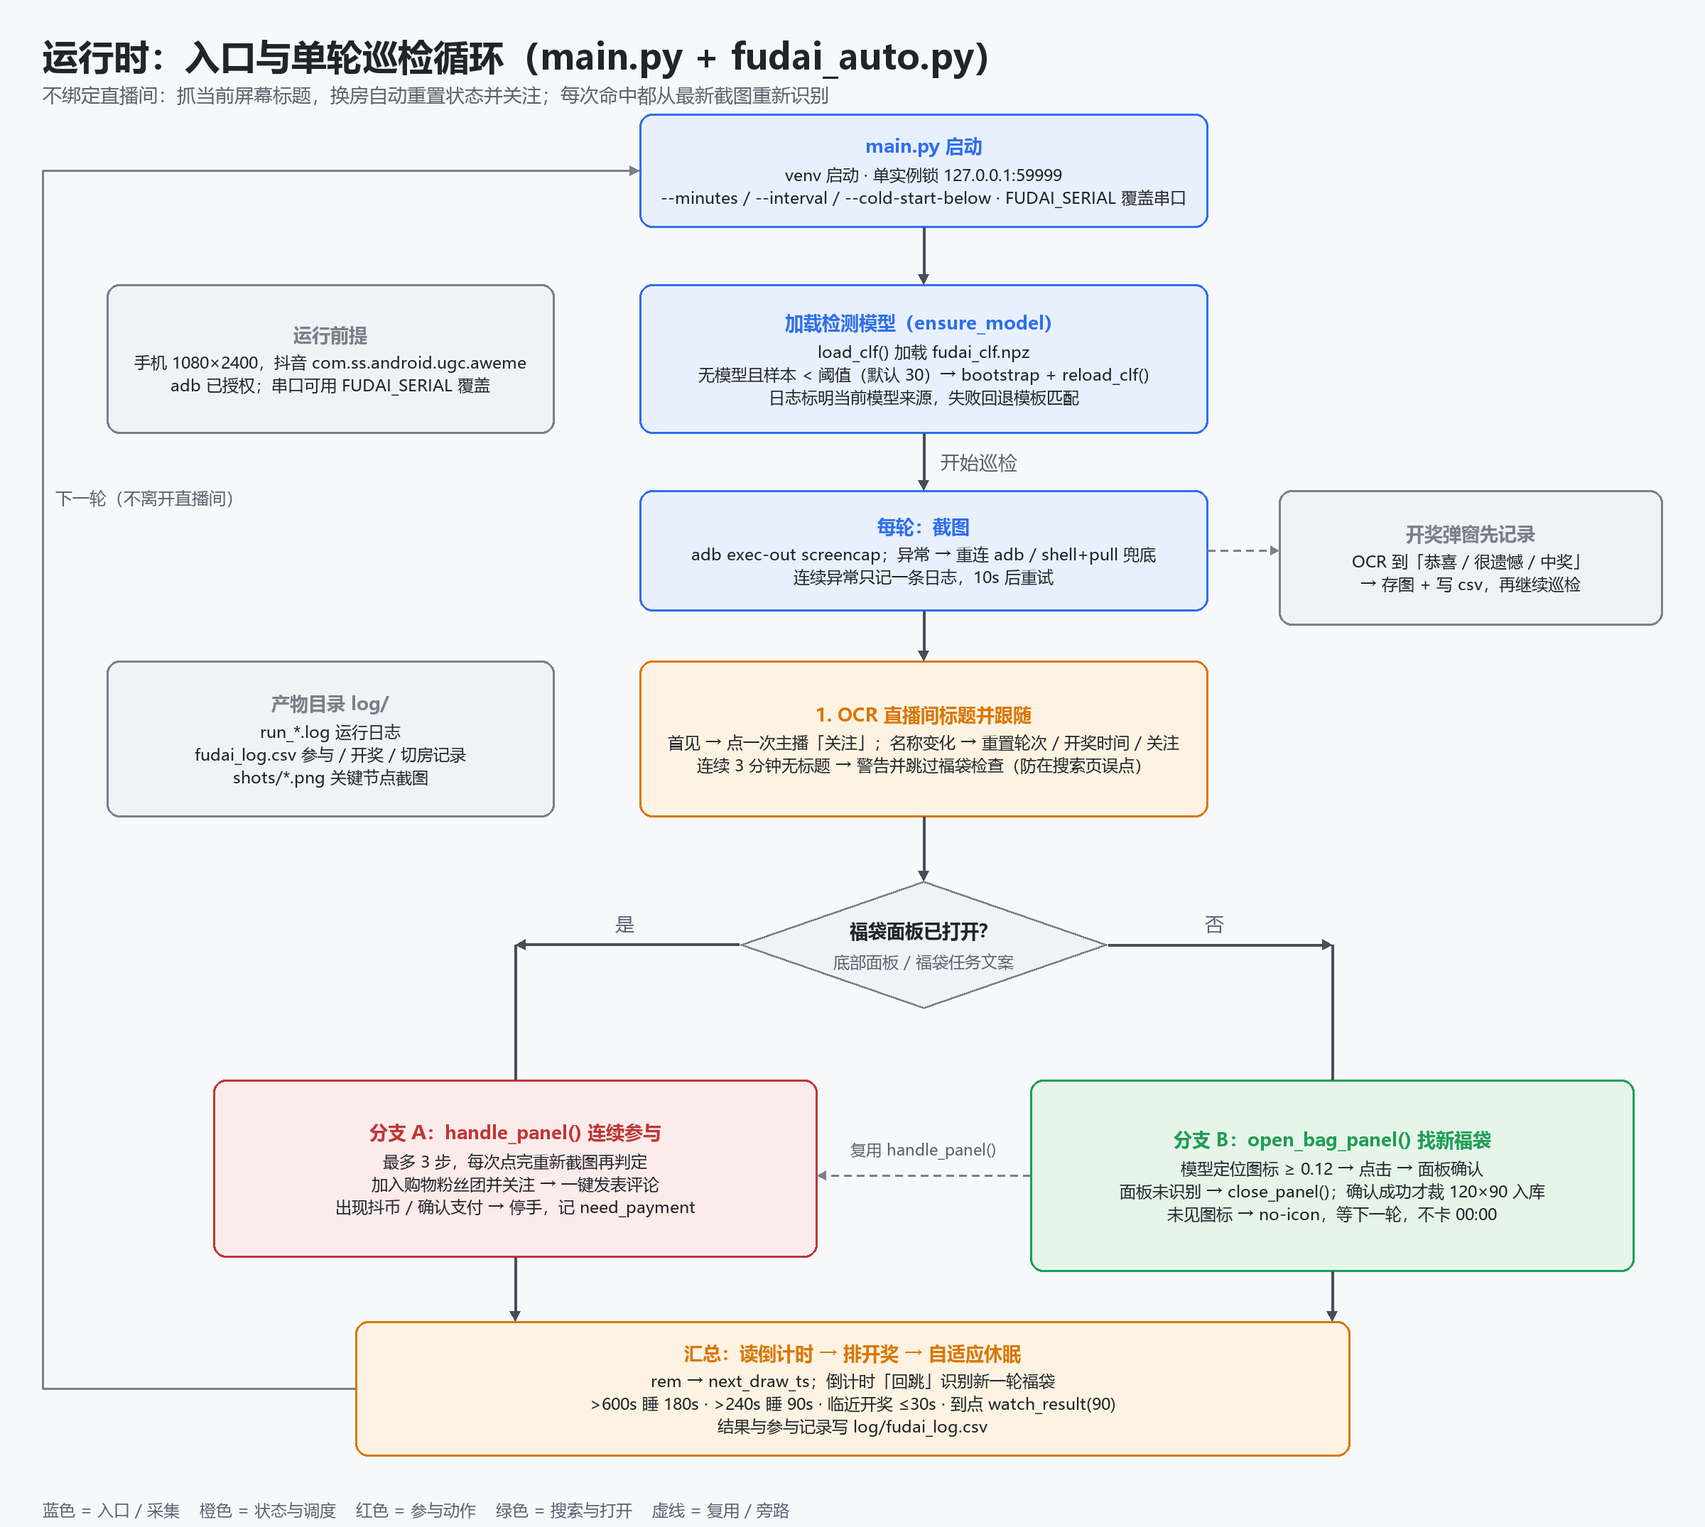
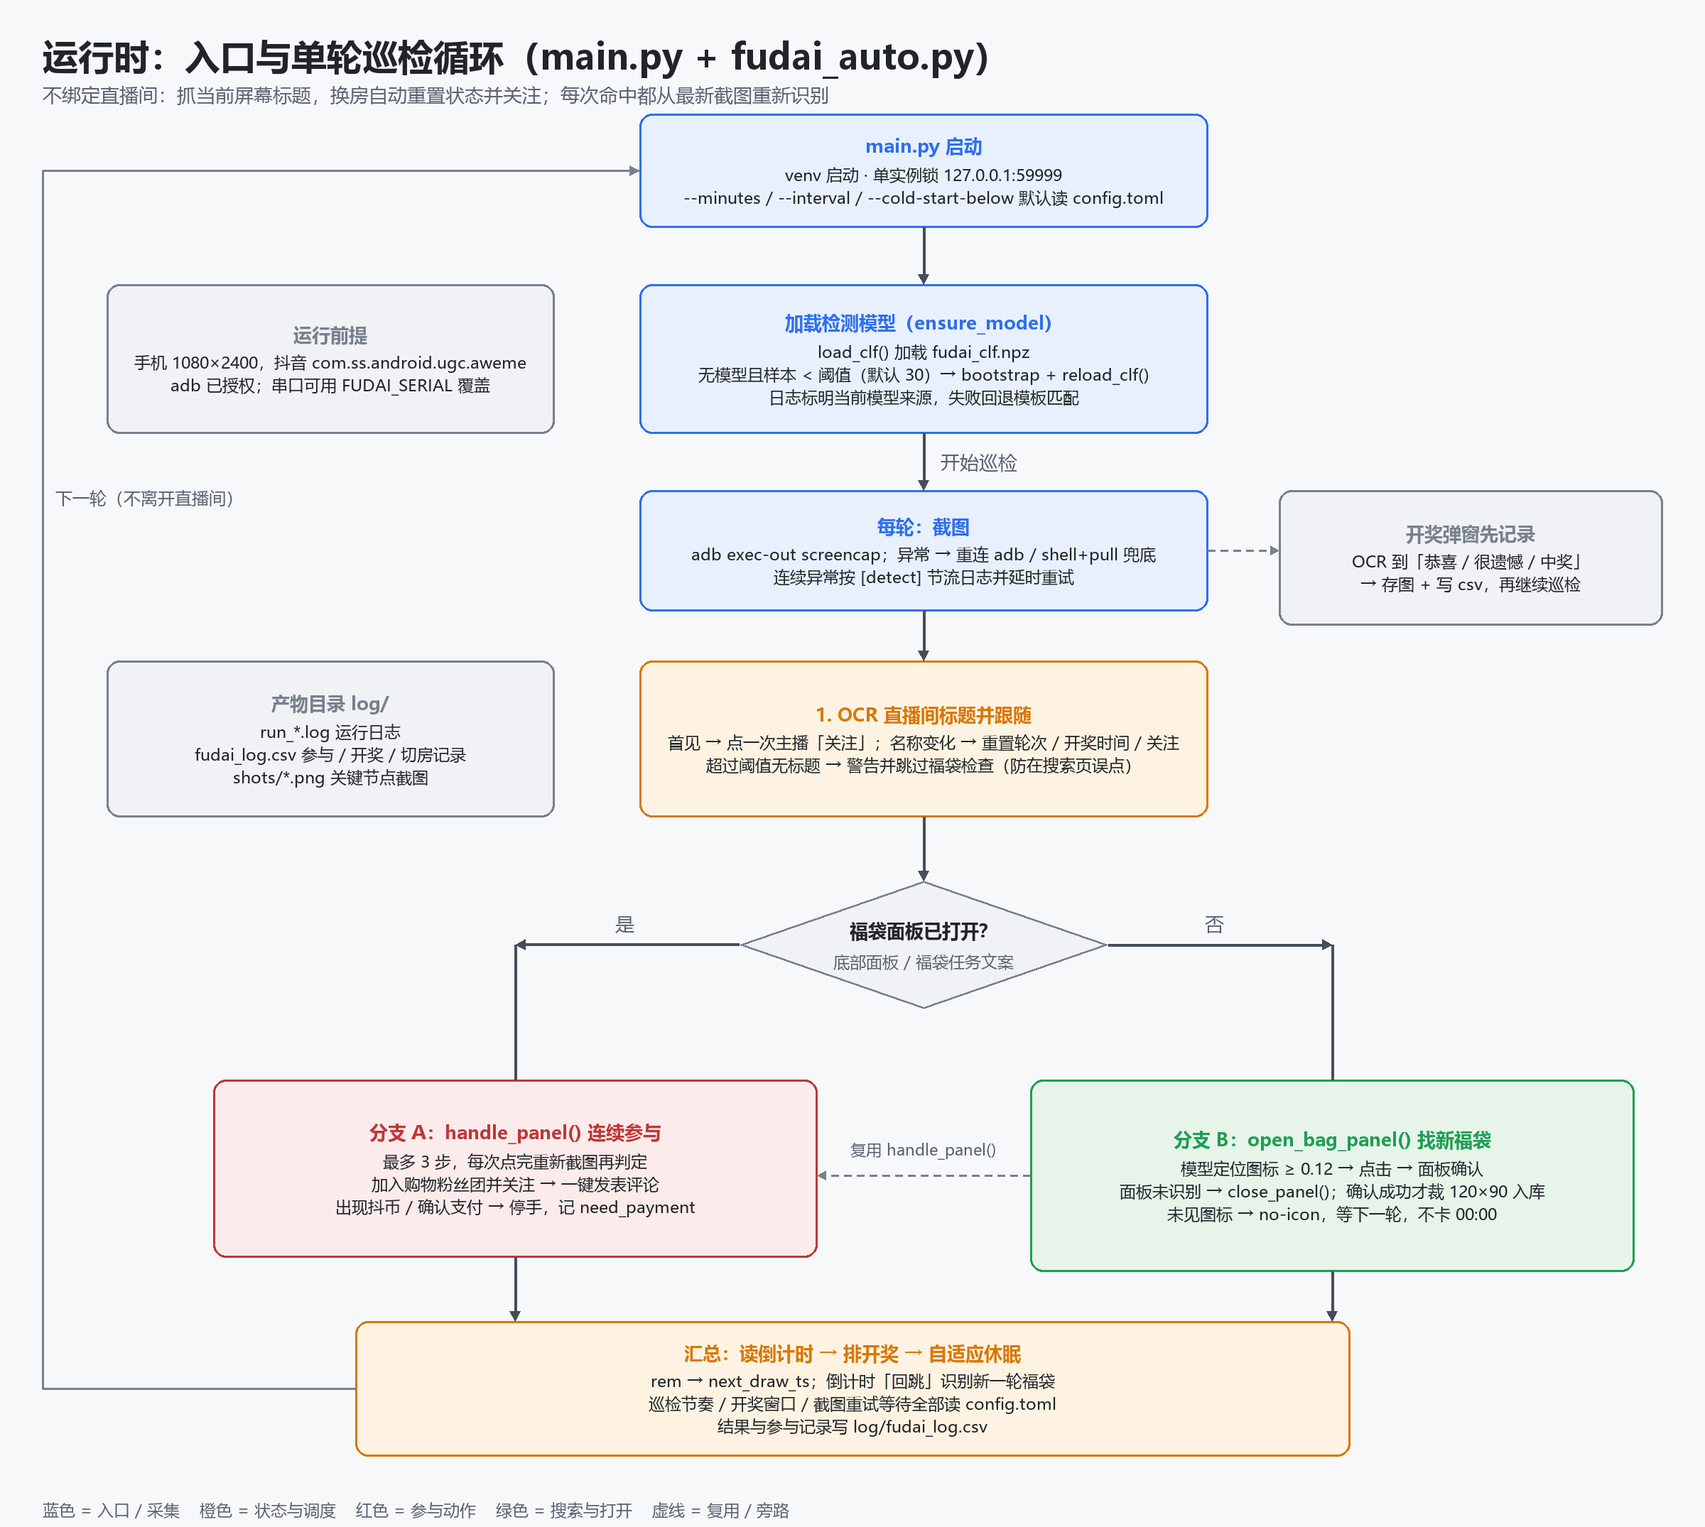
feat: 检测节奏集中到 config.toml，CLI 参数可覆盖

diff --git a/main.py b/main.py
@@ -41,13 +41,22 @@ def ensure_model(cold_start_below):
 
 def main():
     ap = argparse.ArgumentParser()
-    ap.add_argument("--minutes", type=float, default=180, help="运行时长（分钟）")
-    ap.add_argument("--interval", type=float, default=60, help="检查福袋的基础间隔（秒）")
+    ap.add_argument("--minutes", type=float, default=None,
+                    help="运行时长（分钟），默认取 config.toml [run].minutes")
+    ap.add_argument("--interval", type=float, default=None,
+                    help="检查福袋的基础间隔（秒），默认取 config.toml [run].interval")
     ap.add_argument("--room", default="", help="可选：期望的直播间标题关键字，留空跟随当前直播间")
     ap.add_argument("--serial", default=None, help="adb 设备序列号（默认取 FUDAI_SERIAL 或内置值）")
-    ap.add_argument("--cold-start-below", type=int, default=30,
-                    help="样本数低于该值时走冷启动（默认 30）")
+    ap.add_argument("--cold-start-below", type=int, default=None,
+                    help="样本数低于该值时走冷启动，默认取 config.toml [cold_start].below")
     args = ap.parse_args()
+
+    if args.minutes is None:
+        args.minutes = float(fa.cfg("run", "minutes"))
+    if args.interval is None:
+        args.interval = float(fa.cfg("run", "interval"))
+    if args.cold_start_below is None:
+        args.cold_start_below = int(fa.cfg("cold_start", "below"))
 
     if args.serial:
         fa.SERIAL = args.serial
@@ -87,7 +96,7 @@ def main():
         now = time.time()
         if last_rem is not None and last_rem_ts:
             expect = max(0, last_rem - (now - last_rem_ts))
-            if rem > expect + 90:
+            if rem > expect + float(fa.cfg("detect", "new_cycle_jump_seconds")):
                 cycle_count += 1
                 fa.log(f"检测到新一轮福袋（第 {cycle_count} 轮），剩余 {rem}s 开奖")
                 fa.log_csv("new_cycle", f"#{cycle_count} rem={rem}")
@@ -100,11 +109,11 @@ def main():
         try:
             img = fa.shot()
         except Exception as e:
-            if time.time() - last_err_log > 30:
+            if time.time() - last_err_log > float(fa.cfg("detect", "shot_error_log_every_seconds")):
                 last_err_log = time.time()
                 fa.log(f"截图异常(自动重试): {e}")
                 fa.log_csv("shot_error", str(e)[:80])
-            time.sleep(10)
+            time.sleep(float(fa.cfg("detect", "shot_retry_seconds")))
             continue
 
         cycle_no += 1
@@ -133,7 +142,7 @@ def main():
                 last_rem_ts = 0.0
                 cycle_count = 1
                 fa.save(img, "room_switch")
-                time.sleep(2)
+                time.sleep(float(fa.cfg("detect", "room_switch_settle_seconds")))
                 r = fa.follow_anchor(img)
                 if r:
                     fa.log_csv("follow", f"{name} {r}")
@@ -143,8 +152,9 @@ def main():
                     f"提示: 当前直播间为「{name}」，与 --room「{args.room}」不一致；已按当前直播间继续"
                 )
                 room_warned = True
-        elif time.time() - last_room_seen > 180:
-            fa.log("警告: 连续 3 分钟未识别到直播间标题，可能已离开直播间")
+        elif time.time() - last_room_seen > float(fa.cfg("detect", "room_missing_warn_seconds")):
+            mins = float(fa.cfg("detect", "room_missing_warn_seconds")) / 60
+            fa.log(f"警告: 连续 {mins:g} 分钟未识别到直播间标题，可能已离开直播间")
             fa.log_csv("warn_room", "no-title")
             last_room_seen = time.time()
             fa.save(img, "no_room_title")
@@ -171,13 +181,13 @@ def main():
                 next_draw_ts = time.time() + rem
                 draw_watched = False
             else:
-                next_draw_ts = time.time() + 750
+                next_draw_ts = time.time() + float(fa.cfg("detect", "default_draw_seconds"))
                 draw_watched = False
             if status == "need_payment":
                 fa.log("该福袋需要付费（抖币），本房间不再自动点击，请手动处理")
                 fa.log_csv("need_payment", f"{cur_room} {detail}")
             track_cycle(rem)
-            time.sleep(1.0)
+            time.sleep(float(fa.cfg("detect", "panel_settle_seconds")))
         else:
             # 打开福袋检查（未识别到直播间标题时跳过，避免在搜索页/桌面误点）
             if not fa.ROOM_NAME:
@@ -206,32 +216,38 @@ def main():
                         draw_watched = False
                         fa.log(f"当前福袋已参与，剩余 {rem}s 开奖")
                     else:
-                        next_draw_ts = time.time() + 750
+                        next_draw_ts = time.time() + float(fa.cfg("detect", "default_draw_seconds"))
                         draw_watched = False
-                        fa.log("未读到倒计时，按默认 12.5 分钟排开奖")
+                        mins = float(fa.cfg("detect", "default_draw_seconds")) / 60
+                    fa.log(f"未读到倒计时，按默认 {mins:g} 分钟排开奖")
                     if status == "need_payment":
                         fa.log("该福袋需要付费（抖币），已暂停自动点击，请手动处理")
                         fa.log_csv("need_payment", f"{cur_room} {detail}")
                     track_cycle(rem)
 
         # 开奖窗口
-        if (not draw_watched) and next_draw_ts and time.time() >= next_draw_ts - 3:
+        if (not draw_watched) and next_draw_ts and time.time() >= next_draw_ts - float(
+            fa.cfg("detect", "draw_margin_seconds")
+        ):
             fa.log(f"进入开奖观察窗口（第 {cycle_count} 轮）")
-            fa.watch_result(90)
+            fa.watch_result(float(fa.cfg("detect", "watch_seconds")))
             draw_watched = True
 
         # 睡眠：按剩余时间自适应，临近开奖打短，避免错过开奖瞬间
         gap = args.interval
         if (not draw_watched) and last_rem is not None:
-            if last_rem > 600:
-                gap = 180
-            elif last_rem > 240:
-                gap = 90
+            if last_rem > float(fa.cfg("pacing", "slow_remaining_seconds")):
+                gap = float(fa.cfg("pacing", "slow_interval"))
+            elif last_rem > float(fa.cfg("pacing", "mid_remaining_seconds")):
+                gap = float(fa.cfg("pacing", "mid_interval"))
             else:
-                gap = max(20, args.interval)
+                gap = max(float(fa.cfg("pacing", "near_min_seconds")), args.interval)
         sleep_s = gap
         if (not draw_watched) and next_draw_ts:
-            sleep_s = max(1.5, min(sleep_s, next_draw_ts - time.time() - 2))
+            sleep_s = max(
+                float(fa.cfg("pacing", "min_sleep_seconds")),
+                min(sleep_s, next_draw_ts - time.time() - float(fa.cfg("detect", "draw_margin_seconds"))),
+            )
         time.sleep(sleep_s)
 
     fa.log(f"结束，共参与 {bag_count} 次福袋")

diff --git a/fudai_auto.py b/fudai_auto.py
@@ -22,6 +22,7 @@ import os
 import re
 import subprocess
 import time
+import tomllib
 from datetime import datetime
 
 import cv2
@@ -31,6 +32,66 @@ from rapidocr_onnxruntime import RapidOCR
 
 SERIAL = os.getenv("FUDAI_SERIAL", "IB8XCEM7IJBAMZY5")
 ROOT = os.path.dirname(os.path.abspath(__file__))
+
+# 检测节奏全部集中在 config.toml；这里只是文件缺失/缺键时的兜底
+DEFAULT_CONFIG = {
+    "run": {"minutes": 180.0, "interval": 60.0},
+    "cold_start": {"below": 30},
+    "detect": {
+        "shot_retry_seconds": 10.0,
+        "shot_error_log_every_seconds": 30.0,
+        "room_switch_settle_seconds": 2.0,
+        "room_missing_warn_seconds": 180.0,
+        "default_draw_seconds": 750.0,
+        "new_cycle_jump_seconds": 90.0,
+        "watch_seconds": 90.0,
+        "draw_margin_seconds": 3.0,
+        "panel_settle_seconds": 1.0,
+    },
+    "pacing": {
+        "slow_remaining_seconds": 600.0,
+        "slow_interval": 180.0,
+        "mid_remaining_seconds": 240.0,
+        "mid_interval": 90.0,
+        "near_min_seconds": 20.0,
+        "min_sleep_seconds": 1.5,
+    },
+    "sample": {"throttle_seconds": 60.0},
+    "watch": {"poll_seconds": 3.0, "log_every_seconds": 20.0},
+}
+CONFIG_PATH = os.path.join(ROOT, "config.toml")
+
+
+def _load_config():
+    cfg = {sec: dict(vals) for sec, vals in DEFAULT_CONFIG.items()}
+    if not os.path.exists(CONFIG_PATH):
+        return cfg
+    try:
+        with open(CONFIG_PATH, "rb") as f:
+            raw = tomllib.load(f)
+    except Exception as e:
+        print(f"[config] 读取 {CONFIG_PATH} 失败，使用内置默认值: {e}")
+        return cfg
+    for sec, vals in raw.items():
+        if sec not in cfg or not isinstance(vals, dict):
+            print(f"[config] 忽略未知段 [{sec}]")
+            continue
+        for key, val in vals.items():
+            if key in cfg[sec]:
+                cfg[sec][key] = val
+            else:
+                print(f"[config] 忽略未知键 [{sec}].{key}")
+    return cfg
+
+
+CONFIG = _load_config()
+
+
+def cfg(section, key):
+    """读取配置；缺段/缺键时回落到内置默认值"""
+    return CONFIG.get(section, {}).get(key, DEFAULT_CONFIG[section][key])
+
+
 LOG_DIR = os.path.join(ROOT, "log")
 SHOT_DIR = os.path.join(LOG_DIR, "shots")
 LOG_CSV = os.path.join(LOG_DIR, "fudai_log.csv")
@@ -495,7 +556,7 @@ def save_dataset(img, cx, cy, label, src):
     """把成功识别到的福袋图标裁成样本，作为训练数据（节流 + 去重）"""
     now = time.time()
     st = _dataset_state
-    if st["label"] == label and now - st["ts"] < 60:
+    if st["label"] == label and now - st["ts"] < float(cfg("sample", "throttle_seconds")):
         return None
     x0 = max(0, int(cx) - 60)
     y0 = max(0, int(cy) - 45)
@@ -569,9 +630,13 @@ def open_bag_panel(img):
     return img2, f"tap({int(cx)},{int(cy)}) {src}"
 
 
-def watch_result(seconds=80):
+def watch_result(seconds=None):
+    if seconds is None:
+        seconds = float(cfg("detect", "watch_seconds"))
     t_end = time.time() + seconds
     last = 0
+    poll = float(cfg("watch", "poll_seconds"))
+    log_every = float(cfg("watch", "log_every_seconds"))
     while time.time() < t_end:
         img = shot()
         t = texts_of(ocr(crop(img, RESULT_ROI), 0.45))
@@ -594,10 +659,10 @@ def watch_result(seconds=80):
                     time.sleep(0.8)
                     break
             return
-        if time.time() - last > 20:
+        if time.time() - last > log_every:
             last = time.time()
             log(f"等待开奖中… {t[:40]}")
-        time.sleep(3)
+        time.sleep(poll)
 
 if __name__ == "__main__":
     # 兼容旧入口：实际主循环已迁移到 main.py

diff --git a/docs/make_flowchart.py b/docs/make_flowchart.py
@@ -197,7 +197,7 @@ def runtime_loop():
 
     # 入口
     box(d, (900, 160, 1700, 320), "main.py 启动",
-        "venv 启动 · 单实例锁 127.0.0.1:59999\n--minutes / --interval / --cold-start-below · FUDAI_SERIAL 覆盖串口",
+        "venv 启动 · 单实例锁 127.0.0.1:59999\n--minutes / --interval / --cold-start-below 默认读 config.toml",
         BLUE, BLUE_BG, fb, fbd)
     box(d, (900, 400, 1700, 610), "加载检测模型（ensure_model）",
         "load_clf() 加载 fudai_clf.npz\n无模型且样本 < 阈值（默认 30）→ bootstrap + reload_clf()\n日志标明当前模型来源，失败回退模板匹配",
@@ -206,12 +206,12 @@ def runtime_loop():
 
     # 每轮
     box(d, (900, 690, 1700, 860), "每轮：截图",
-        "adb exec-out screencap；异常 → 重连 adb / shell+pull 兜底\n连续异常只记一条日志，10s 后重试", BLUE, BLUE_BG, fb, fbd)
+        "adb exec-out screencap；异常 → 重连 adb / shell+pull 兜底\n连续异常按 [detect] 节流日志并延时重试", BLUE, BLUE_BG, fb, fbd)
     arrow(d, (1300, 610), (1300, 690))
     label(d, (1324, 650), "开始巡检", fs, MUTED, "lm")
 
     box(d, (900, 930, 1700, 1150), "1. OCR 直播间标题并跟随",
-        "首见 → 点一次主播「关注」；名称变化 → 重置轮次 / 开奖时间 / 关注\n连续 3 分钟无标题 → 警告并跳过福袋检查（防在搜索页误点）",
+        "首见 → 点一次主播「关注」；名称变化 → 重置轮次 / 开奖时间 / 关注\n超过阈值无标题 → 警告并跳过福袋检查（防在搜索页误点）",
         ORANGE, ORANGE_BG, fb, fbd)
     arrow(d, (1300, 860), (1300, 930))
 
@@ -239,7 +239,7 @@ def runtime_loop():
 
     # 收尾
     box(d, (500, 1860, 1900, 2050), "汇总：读倒计时 → 排开奖 → 自适应休眠",
-        "rem → next_draw_ts；倒计时「回跳」识别新一轮福袋\n>600s 睡 180s · >240s 睡 90s · 临近开奖 ≤30s · 到点 watch_result(90)\n结果与参与记录写 log/fudai_log.csv",
+        "rem → next_draw_ts；倒计时「回跳」识别新一轮福袋\n巡检节奏 / 开奖窗口 / 截图重试等待全部读 config.toml\n结果与参与记录写 log/fudai_log.csv",
         ORANGE, ORANGE_BG, fb, fbd)
     arrow(d, (725, 1770), (725, 1860))
     arrow(d, (1875, 1790), (1875, 1860))

diff --git a/README.md b/README.md
@@ -4,7 +4,7 @@
 
 ## 依赖
 
-- Python 3.10+（已在 3.13 验证）
+- Python 3.11+（已在 3.13 验证；`config.toml` 用标准库 `tomllib`）
 - adb 已连接手机，`adb devices` 能看到设备
 - Python 包见 `requirements.txt`
 
@@ -21,11 +21,41 @@ python -m venv .venv
 
 | 参数 | 默认 | 说明 |
 |---|---|---|
-| `--minutes` | 180 | 运行时长（分钟） |
-| `--interval` | 30 | 基础巡检间隔（秒）；剩余时间久时会自动放慢 |
+| `--minutes` | 180 | 运行时长（分钟），取自 `config.toml [run].minutes` |
+| `--interval` | 60 | 基础巡检间隔（秒），取自 `[run].interval`；剩余时间久时会自动放慢 |
 | `--room` | 空 | 可选：期望的房间标题关键字；留空则只跟随当前直播间 |
 | `--serial` | IB8XCEM7IJBAMZY5 | adb 设备序列号（也可用环境变量 `FUDAI_SERIAL`） |
-| `--cold-start-below` | 30 | 样本数低于该值且没有检测模型时，自动用种子图冷启动 |
+| `--cold-start-below` | 30 | 样本数低于该值时冷启动，取自 `[cold_start].below` |
+
+命令行显式传参时覆盖 `config.toml`，`config.toml` 覆盖代码内置默认值。
+
+## 配置 config.toml
+
+检测节奏、开奖观察、采样节流都集中在根目录 `config.toml`，改完直接重启 `main.py` 生效（无需改代码）。时间单位统一为秒。
+
+| 段 | 键 | 默认 | 说明 |
+|---|---|---|---|
+| `[run]` | `minutes` | 180 | 运行时长（分钟） |
+| | `interval` | 60 | 基础巡检间隔 |
+| `[cold_start]` | `below` | 30 | 样本数低于该值走种子图 bootstrap |
+| `[detect]` | `shot_retry_seconds` | 10 | 截图异常后的重试等待 |
+| | `shot_error_log_every_seconds` | 30 | 连续截图异常的日志节流 |
+| | `room_switch_settle_seconds` | 2 | 切房后等待再截图/关注 |
+| | `room_missing_warn_seconds` | 180 | 连续多久没标题就警告 |
+| | `default_draw_seconds` | 750 | 读不到倒计时的默认排期 |
+| | `new_cycle_jump_seconds` | 90 | 倒计时回跳多少秒算新一轮 |
+| | `watch_seconds` | 90 | 开奖观察窗口时长 |
+| | `draw_margin_seconds` | 3 | 提前多少秒进观察窗口 |
+| | `panel_settle_seconds` | 1 | 面板处理后的隔拍 |
+| `[pacing]` | `slow_remaining_seconds` / `slow_interval` | 600 / 180 | 剩余 >10 分钟时的巡检间隔 |
+| | `mid_remaining_seconds` / `mid_interval` | 240 / 90 | 剩余 >4 分钟时的巡检间隔 |
+| | `near_min_seconds` | 20 | 临近开奖的下限间隔 |
+| | `min_sleep_seconds` | 1.5 | 每轮最短休眠 |
+| `[sample]` | `throttle_seconds` | 60 | 同状态样本采集节流 |
+| `[watch]` | `poll_seconds` | 3 | 开奖窗口内截图/识别间隔 |
+| | `log_every_seconds` | 20 | “等待开奖中”日志节流 |
+
+配置写错或未知键会在启动时打印 `[config]` 提示，并回落到内置默认值。
 
 ## 训练
 
@@ -43,7 +73,7 @@ python -m venv .venv
 .\train.ps1 -Watch -IntervalSec 300  # 样本数变化自动全量重训（常驻）
 ```
 
-冷启动逻辑：`data/fudai/icons` 里的样本数 < `-ColdStartBelow`（默认 30）时，检测模型改为用一张种子图 bootstrap（`bootstrap_fudai_clf.py`），只做“点火”；样本涨到阈值后再跑全量训练。状态模型要求至少 2 个类别，冷启动阶段会自动跳过。`main.py` 启动时也会做同样判断：没有检测模型且样本不足，会先 bootstrap 再热加载。
+冷启动逻辑：`data/fudai/icons` 里的样本数 < `-ColdStartBelow`（默认 30）时，检测模型改为用一张种子图 bootstrap（`bootstrap_fudai_clf.py`），只做“点火”；样本涨到阈值后再跑全量训练。状态模型要求至少 2 个类别，冷启动阶段会自动跳过。`main.py` 启动时读 `config.toml [cold_start].below`（默认 30）做同样判断：没有检测模型且样本不足，会先 bootstrap 再热加载。`train.ps1` 的 `-ColdStartBelow` 是独立参数，改阈值时两边保持一致。
 
 | 文件 | 用途 | 训练脚本 |
 |---|---|---|
@@ -106,6 +136,7 @@ train_fudai.py       状态模型训练（3 分类 + LOO 评估）-> fudai_state
 train.ps1            一键训练/预测/常驻重训（含冷启动阈值）
 data/fudai/bag_template.png  福袋图标模板（模型缺失时兜底，已入库）
 requirements.txt     依赖
+config.toml          检测节奏/开奖观察/采样节流配置（CLI 可覆盖）
 log/                 运行日志与截图
 log/run_*.log        每次运行的文本日志
 log/fudai_log.csv    参与/切房/开奖结果记录
